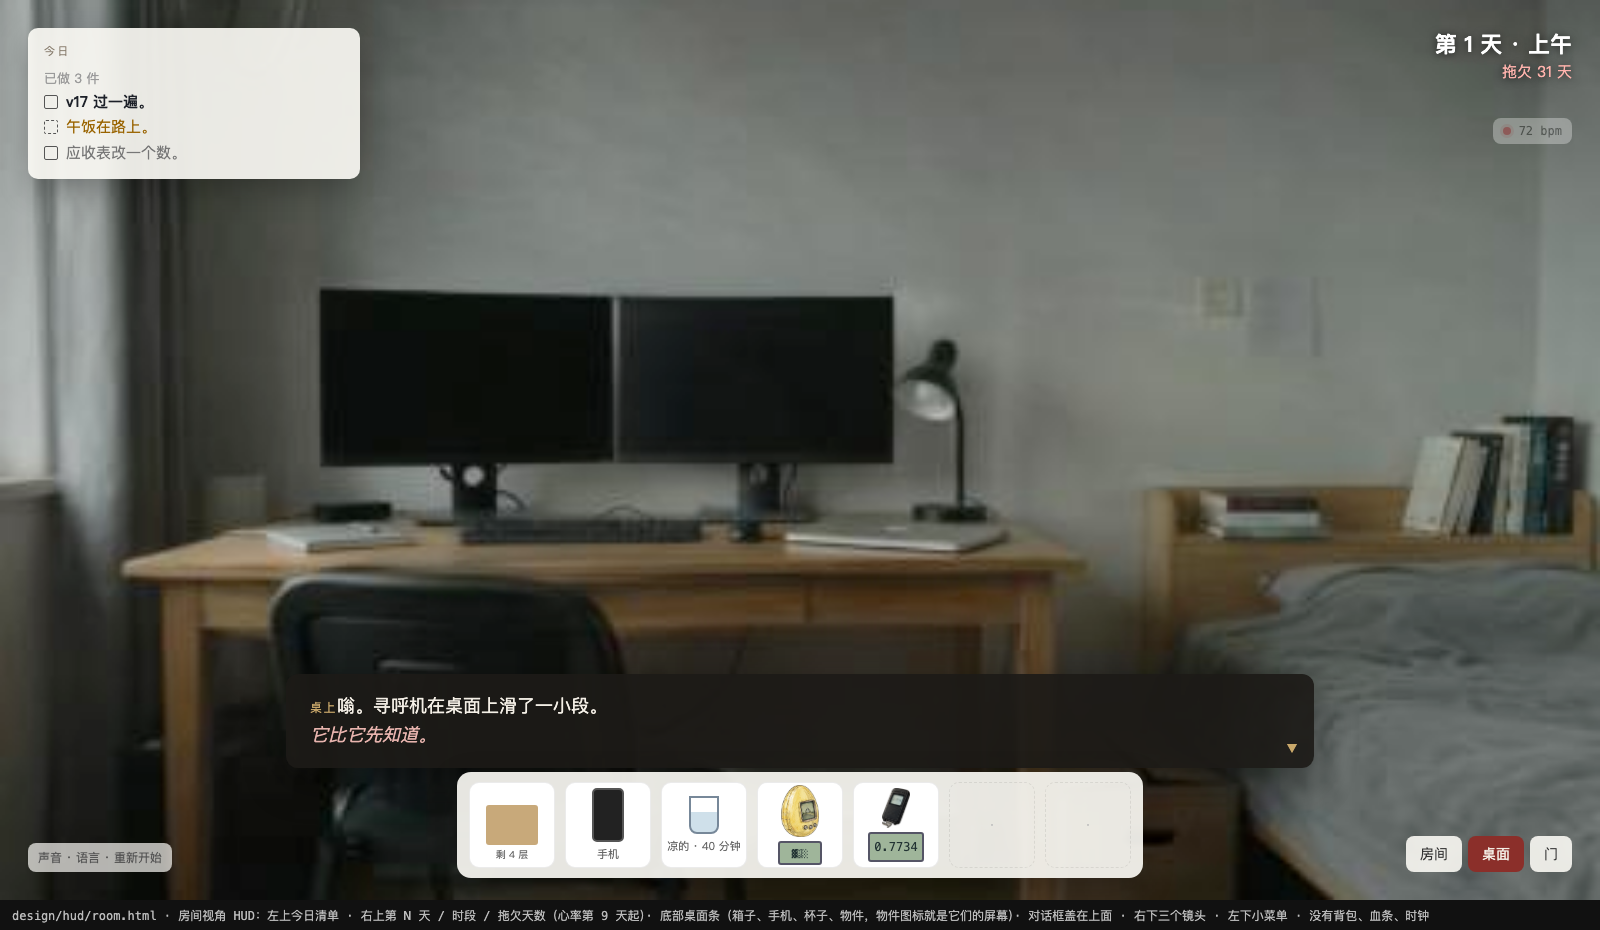
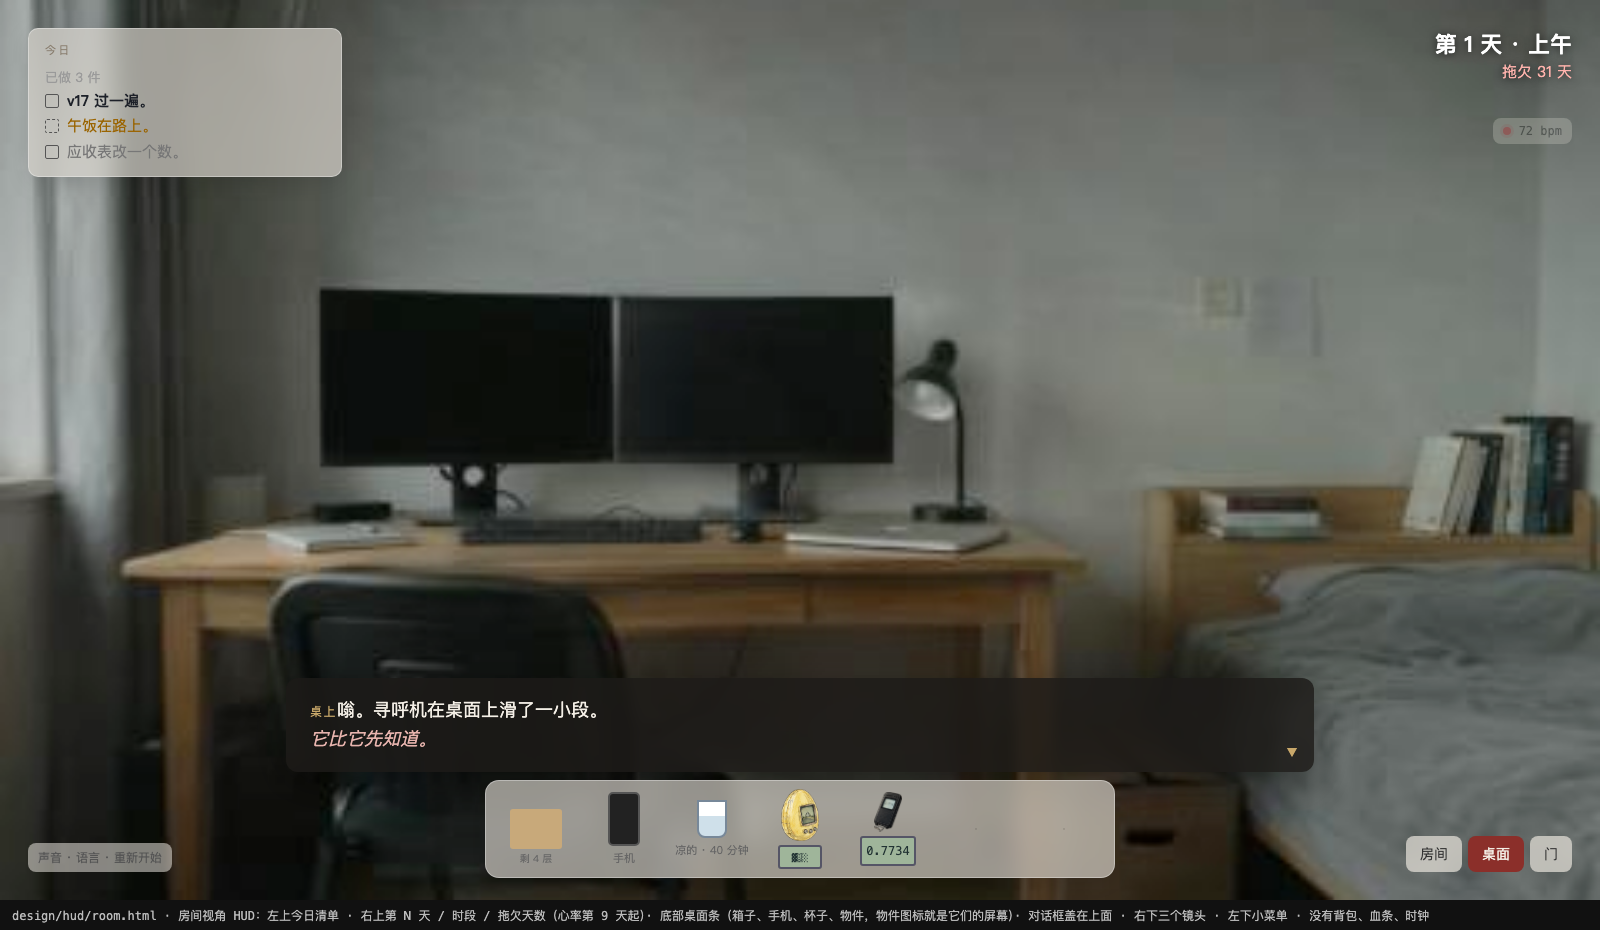
design: desk bar without slot frames; HUD cards translucent

diff --git a/design/hud/room.html b/design/hud/room.html
@@ -1,10 +1,10 @@
 <!doctype html><html lang="zh"><meta charset="utf-8"><title>HUD · 房间视角</title>
 <style>
-:root{--ink:#1d2129;--paper:rgba(250,248,243,.92);--line:rgba(0,0,0,.08);--red:#8b2f2a;--font:"PingFang SC","Hiragino Sans GB",sans-serif;--mono:Menlo,monospace}
+:root{--ink:#1d2129;--paper:rgba(232,228,220,.62);--line:rgba(0,0,0,.08);--red:#8b2f2a;--font:"PingFang SC","Hiragino Sans GB",sans-serif;--mono:Menlo,monospace}
 html,body{margin:0;background:#111}
 .stage{position:relative;width:1600px;height:900px;overflow:hidden;background:#000 url(bg_desk.jpg) center/cover;font-family:var(--font);color:var(--ink)}
 /* 今日清单 */
-.list{position:absolute;left:28px;top:28px;width:300px;background:var(--paper);border-radius:10px;padding:14px 16px;box-shadow:0 10px 30px rgba(0,0,0,.25);font-size:15px;line-height:1.7}
+.list{position:absolute;left:28px;top:28px;width:280px;background:var(--paper);backdrop-filter:blur(10px);border:1px solid rgba(255,255,255,.35);border-radius:10px;padding:12px 16px;box-shadow:0 6px 24px rgba(0,0,0,.12);font-size:15px;line-height:1.7}
 .list .h{font-size:11px;letter-spacing:.2em;color:#8a7f70;margin-bottom:6px}
 .list .done{color:#9a9a9a;font-size:13px}
 .list .it{display:flex;gap:8px;align-items:baseline}.list .it i{width:12px;height:12px;border:1.5px solid #555;border-radius:2px;flex:0 0 auto;transform:translateY(2px)}
@@ -12,24 +12,24 @@ html,body{margin:0;background:#111}
 /* 右上 */
 .day{position:absolute;right:28px;top:28px;text-align:right;color:#fff;text-shadow:0 1px 8px rgba(0,0,0,.6);font-size:15px;line-height:1.5}
 .day b{display:block;font-size:22px;font-weight:600}.day .ov{color:#ffb3ad}
-.hr{position:absolute;right:28px;top:118px;background:rgba(255,255,255,.9);border-radius:8px;padding:6px 10px;font:12px var(--mono);color:#333;display:flex;gap:8px;align-items:center}.hr i{width:8px;height:8px;border-radius:50%;background:#e5484d;box-shadow:0 0 0 3px rgba(229,72,77,.2)}
+.hr{position:absolute;right:28px;top:118px;background:rgba(232,228,220,.7);backdrop-filter:blur(8px);border-radius:8px;padding:6px 10px;font:12px var(--mono);color:#333;display:flex;gap:8px;align-items:center}.hr i{width:8px;height:8px;border-radius:50%;background:#e5484d;box-shadow:0 0 0 3px rgba(229,72,77,.2)}
 /* 桌面条 */
-.bar{position:absolute;left:50%;bottom:22px;transform:translateX(-50%);display:flex;gap:10px;padding:10px 12px;background:var(--paper);border-radius:14px;box-shadow:0 10px 30px rgba(0,0,0,.25)}
-.slot{width:84px;height:84px;border-radius:10px;background:#fff;border:1px solid var(--line);display:flex;flex-direction:column;align-items:center;justify-content:center;gap:4px;font-size:11px;color:#666;position:relative}
+.bar{position:absolute;left:50%;bottom:22px;transform:translateX(-50%);display:flex;gap:8px;padding:8px 10px;background:var(--paper);backdrop-filter:blur(10px);border:1px solid rgba(255,255,255,.35);border-radius:14px;box-shadow:0 6px 24px rgba(0,0,0,.12)}
+.slot{width:80px;height:80px;border-radius:10px;background:transparent;border:0;display:flex;flex-direction:column;align-items:center;justify-content:center;gap:4px;font-size:11px;color:#666;position:relative}
 .slot img{max-width:60px;max-height:52px;object-fit:contain}
 .slot .lcd{width:52px;height:26px;background:#9fb59a;border:2px solid #556;border-radius:3px;image-rendering:pixelated;display:flex;align-items:center;justify-content:center;font:12px var(--mono);color:#233}
 .slot .box{width:52px;height:40px;background:#c8a97a;border-radius:3px;position:relative}.slot .box::after{content:"剩 4 层";position:absolute;left:0;right:0;bottom:-16px;font-size:10px;color:#666;text-align:center}
 .slot .cup{width:26px;height:34px;border:2px solid #789;border-radius:0 0 8px 8px;background:linear-gradient(180deg,#fff 40%,#cfe0ea 40%)}
 .slot .phone{width:28px;height:50px;background:#222;border-radius:5px;border:2px solid #555}
-.slot.empty{background:transparent;border-style:dashed;color:#bbb}
+.slot.empty{color:rgba(0,0,0,.18)}
 /* 对话框 */
-.dlg{position:absolute;left:50%;bottom:132px;transform:translateX(-50%);width:980px;background:rgba(28,26,23,.92);color:#f4efe6;border-radius:12px;padding:18px 24px;font-size:18px;line-height:1.6;box-shadow:0 12px 40px rgba(0,0,0,.4)}
+.dlg{position:absolute;left:50%;bottom:128px;transform:translateX(-50%);width:980px;background:rgba(28,26,23,.82);backdrop-filter:blur(6px);color:#f4efe6;border-radius:12px;padding:18px 24px;font-size:18px;line-height:1.6;box-shadow:0 12px 40px rgba(0,0,0,.4)}
 .dlg .who{display:inline-block;font-size:12px;letter-spacing:.12em;color:#c9a86a;margin-bottom:4px}
 .dlg .inner{font-style:italic;color:#e8b4ae}
 .dlg .more{position:absolute;right:16px;bottom:10px;color:#c9a86a;font-size:12px}
 /* 镜头 */
-.cams{position:absolute;right:28px;bottom:28px;display:flex;gap:6px}.cams span{background:rgba(250,248,243,.9);border-radius:8px;padding:8px 14px;font-size:14px;color:#333}.cams span.on{background:var(--red);color:#f4efe6}
-.menu{position:absolute;left:28px;bottom:28px;background:rgba(250,248,243,.7);border-radius:8px;padding:6px 10px;font-size:12px;color:#555}
+.cams{position:absolute;right:28px;bottom:28px;display:flex;gap:6px}.cams span{background:rgba(232,228,220,.7);backdrop-filter:blur(8px);border-radius:8px;padding:8px 14px;font-size:14px;color:#333}.cams span.on{background:var(--red);color:#f4efe6}
+.menu{position:absolute;left:28px;bottom:28px;background:rgba(232,228,220,.55);border-radius:8px;padding:6px 10px;font-size:12px;color:#555}
 .note{position:absolute;left:0;right:0;bottom:0;background:#111;color:#bbb;font:12px var(--mono);padding:6px 12px}
 </style>
 <div class="stage">

diff --git a/.kiro/specs/day-loop/requirements.md b/.kiro/specs/day-loop/requirements.md
@@ -35,7 +35,7 @@ Every `delta`/flag referenced must exist in variables.json; every string is inli
 No inventory, no health bar, no clock. The HUD in the room / desk / door views:
 - Top-left: the checklist (FR1).
 - Top-right: `第 N 天 · 时段` and under it `拖欠 N 天` (the only number that always rises). From the day stages.json/content says, a heart-rate chip appears under it: it is the new world's widget, and it is the only visible proxy for SAN; the game itself never shows SAN.
-- Bottom: the **desk bar**, not an inventory: the box (layers left), the phone, the cup (cold for N minutes, from live state), then each object taken out, in day order. An object's icon is its own screen (the chick's current frame, the pager's digits) rendered by the device skeleton at integer pixels. Empty slots are dashed and silent.
+- Bottom: the **desk bar**, not an inventory: the box (layers left), the phone, the cup (cold for N minutes, from live state), then each object taken out, in day order. An object's icon is its own screen (the chick's current frame, the pager's digits) rendered by the device skeleton at integer pixels. Objects sit directly on the bar as transparent cutouts: no card-in-card, no slot frames (author 2026-11-01). Empty positions are just gaps. The HUD cards themselves are translucent warm grey with blur, never solid white.
 - The dialogue box (FR2) overlays the desk bar when active.
 - Bottom-right: three camera chips 房间 / 桌面 / 门 (桌面 opens the desktop view). Bottom-left: a small menu (sound, language, restart); saves are automatic.
 - Kuro is not in the room HUD; at night the right monitor's small window glows inside the 3D view.
